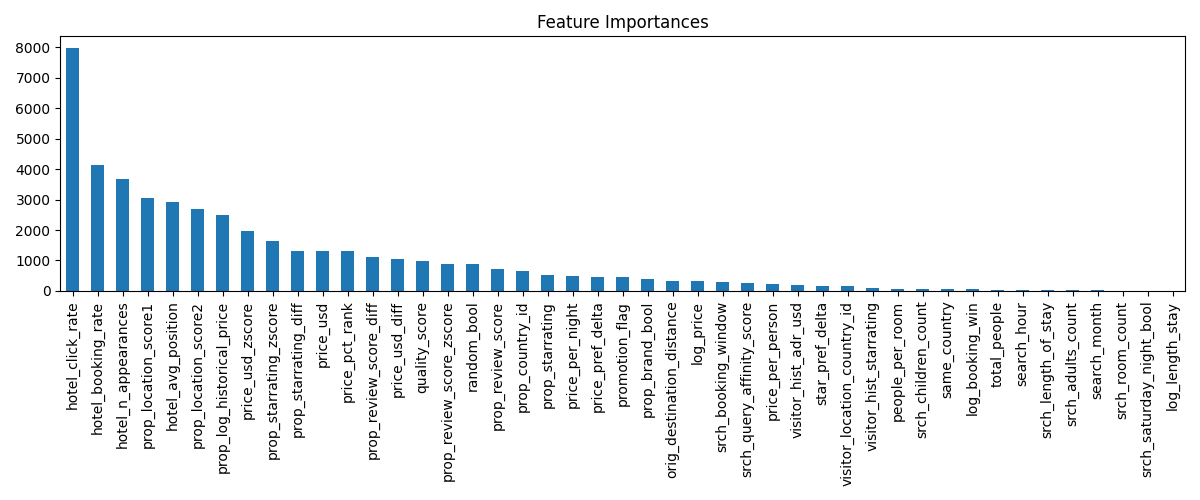
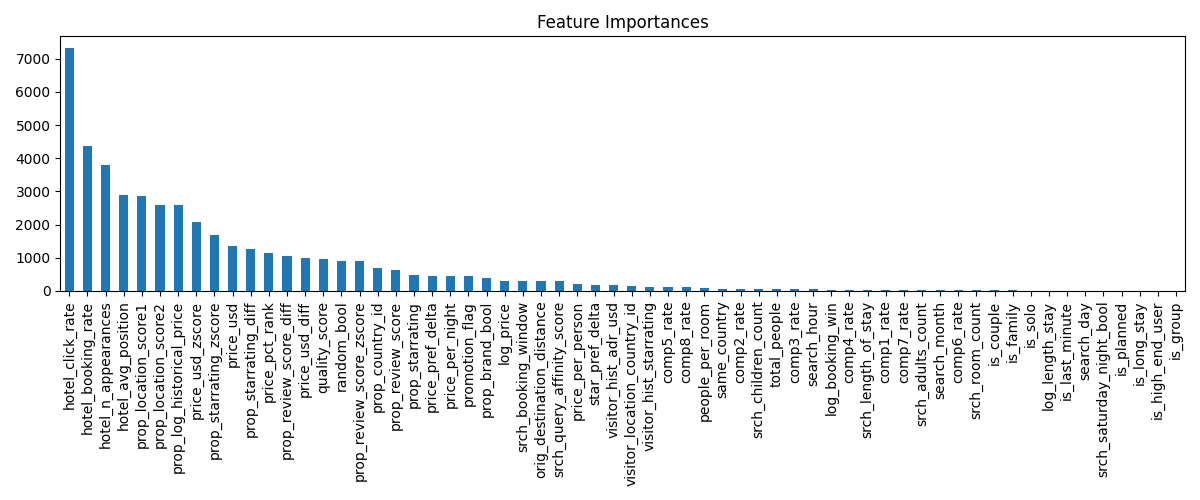
minor changes

Changed region(s): [[0.0, 0.09, 0.9867, 0.96], [0.8942, 0.9, 0.925, 0.96], [0.6783, 0.9, 0.7092, 0.96]]

diff --git a/lambdamart.py b/lambdamart.py
@@ -79,7 +79,7 @@ train_fold, valid_fold, test_fold = add_user_cluster_features_with_validation(tr
 
 # collaborative filtering
 # train_fold, test_fold = run_svd_pipeline(train_fold, test_fold, 20)
-# _, valid_fold = run_svd_pipeline(train_fold, valid_fold, 20)
+# _, valid_fold = run_svd_pipeline(train_fold, valid_fold, 20, validation=True)
 
 # add relevance
 train_fold['relevance'] = 0
@@ -99,6 +99,8 @@ features = [
     'prop_review_score',
     'prop_location_score1',
     'prop_location_score2',
+
+    # HOTEL PERFORMANCE
     'hotel_booking_rate',
     'hotel_click_rate',
     'hotel_avg_position',
@@ -128,8 +130,8 @@ features = [
     'orig_destination_distance',
 
     # competitor data
-    # 'comp1_rate', 'comp2_rate', 'comp3_rate', 'comp4_rate',
-    # 'comp5_rate', 'comp6_rate', 'comp7_rate', 'comp8_rate',
+    'comp1_rate', 'comp2_rate', 'comp3_rate', 'comp4_rate',
+    'comp5_rate', 'comp6_rate', 'comp7_rate', 'comp8_rate',
 
     # for debiasing
     'random_bool',
@@ -147,22 +149,22 @@ features = [
 
     # add_basic_features
     'search_month',
-    # 'search_day',
+    'search_day',
     'search_hour',
     'total_people',
-    # 'is_family',
-    # 'is_solo',
-    # 'is_couple',
-    # 'is_group',
+    'is_family',
+    'is_solo',
+    'is_couple',
+    'is_group',
     'people_per_room',
-    # 'is_long_stay',
-    # 'is_last_minute',
-    # 'is_planned',
+    'is_long_stay',
+    'is_last_minute',
+    'is_planned',
     'log_booking_win',
     'log_length_stay',
     # 'has_hist_star',
     # 'has_hist_price',
-    # 'is_high_end_user',
+    'is_high_end_user',
     'star_pref_delta',
     'price_pref_delta',
     'same_country',
@@ -172,6 +174,13 @@ features = [
     # add_user_cluster_features
     # 'cluster_0', 'cluster_1', 'cluster_2',
     # 'cluster_3', 'cluster_4', 'cluster_5',
+
+    # 'svd_feature_0', 'svd_feature_1', 'svd_feature_2', 'svd_feature_3',
+    # 'svd_feature_4', 'svd_feature_5', 'svd_feature_6',
+    # 'svd_feature_7', 'svd_feature_8', 'svd_feature_9', 'svd_feature_10',
+    # 'svd_feature_11', 'svd_feature_12', 'svd_feature_13', 'svd_feature_14',
+    # 'svd_feature_15', 'svd_feature_16', 'svd_feature_17', 'svd_feature_18',
+    # 'svd_feature_19'
 ]
 
 train_fold = train_fold.sort_values('srch_id')

diff --git a/collaborativefiltering.py b/collaborativefiltering.py
@@ -79,7 +79,7 @@ def get_svd_hotel_features(interaction_matrix: csr_matrix, prop_id_map: Dict[int
 
     return df_svd
 
-def run_svd_pipeline(train_df: pd.DataFrame, test_df: pd.DataFrame, n_components: int = 20) -> Tuple[pd.DataFrame, pd.DataFrame]:
+def run_svd_pipeline(train_df: pd.DataFrame, test_df: pd.DataFrame, n_components: int = 20, validation:bool=False) -> Tuple[pd.DataFrame, pd.DataFrame]:
     """
     Runs the entire SVD pipeline: creates interaction matrix, extracts hotel features, 
     and merges them into both the train and test sets.
@@ -100,7 +100,8 @@ def run_svd_pipeline(train_df: pd.DataFrame, test_df: pd.DataFrame, n_components
     hotel_features_df = get_svd_hotel_features(interaction_matrix, prop_id_map, n_components)
     
     # Merge the SVD features into the training set
-    train_df = train_df.merge(hotel_features_df, on='prop_id', how='left')
+    if not validation:
+        train_df = train_df.merge(hotel_features_df, on='prop_id', how='left')
 
     #Merge the SVD features into the test set
     test_df = test_df.merge(hotel_features_df, on='prop_id', how='left')